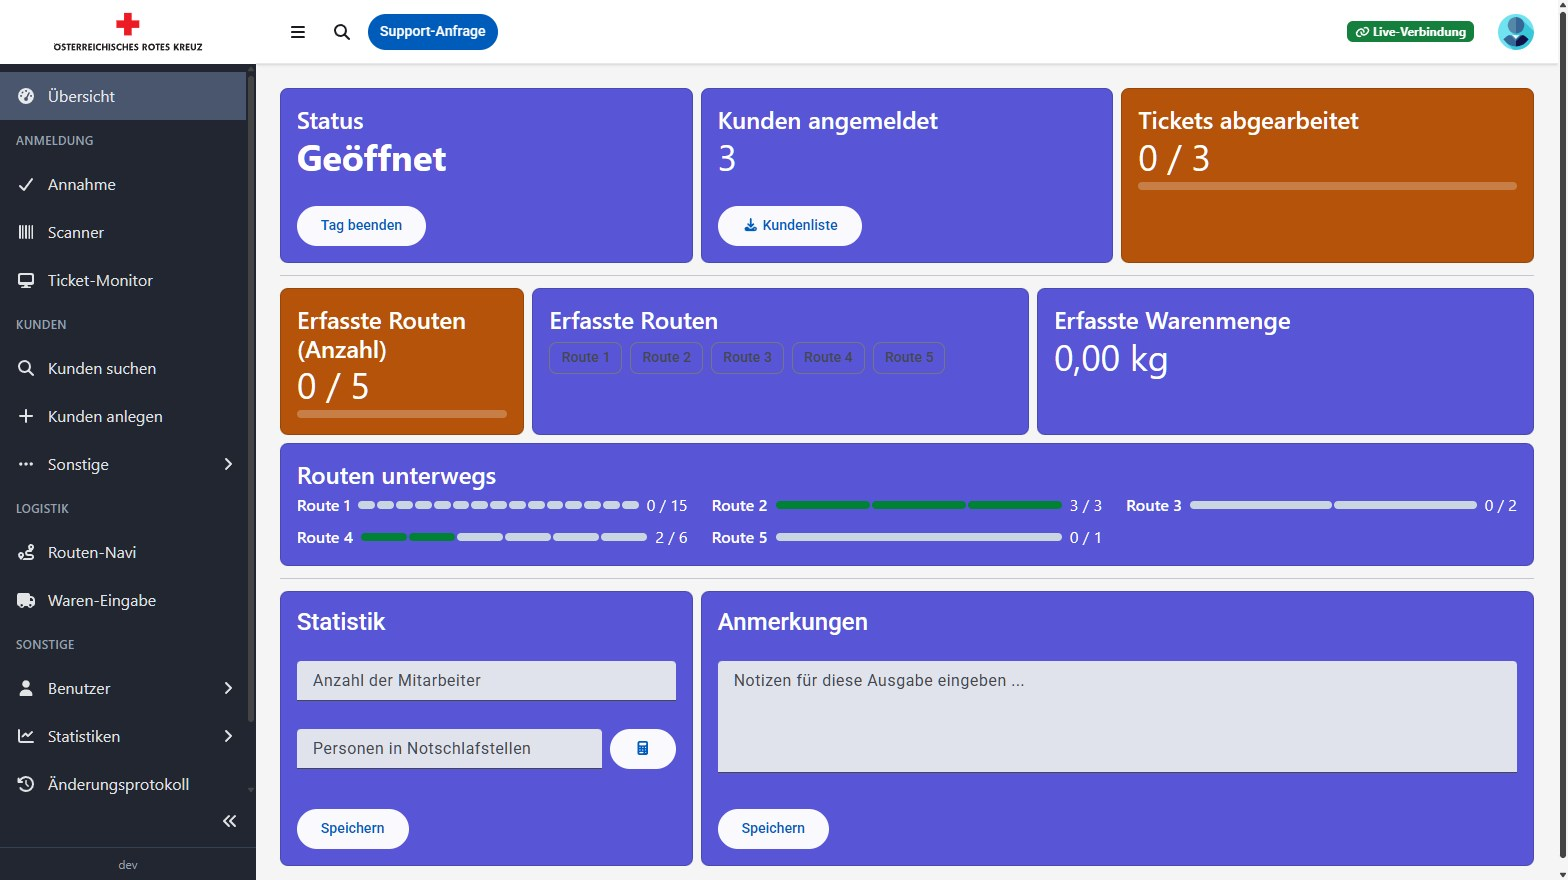
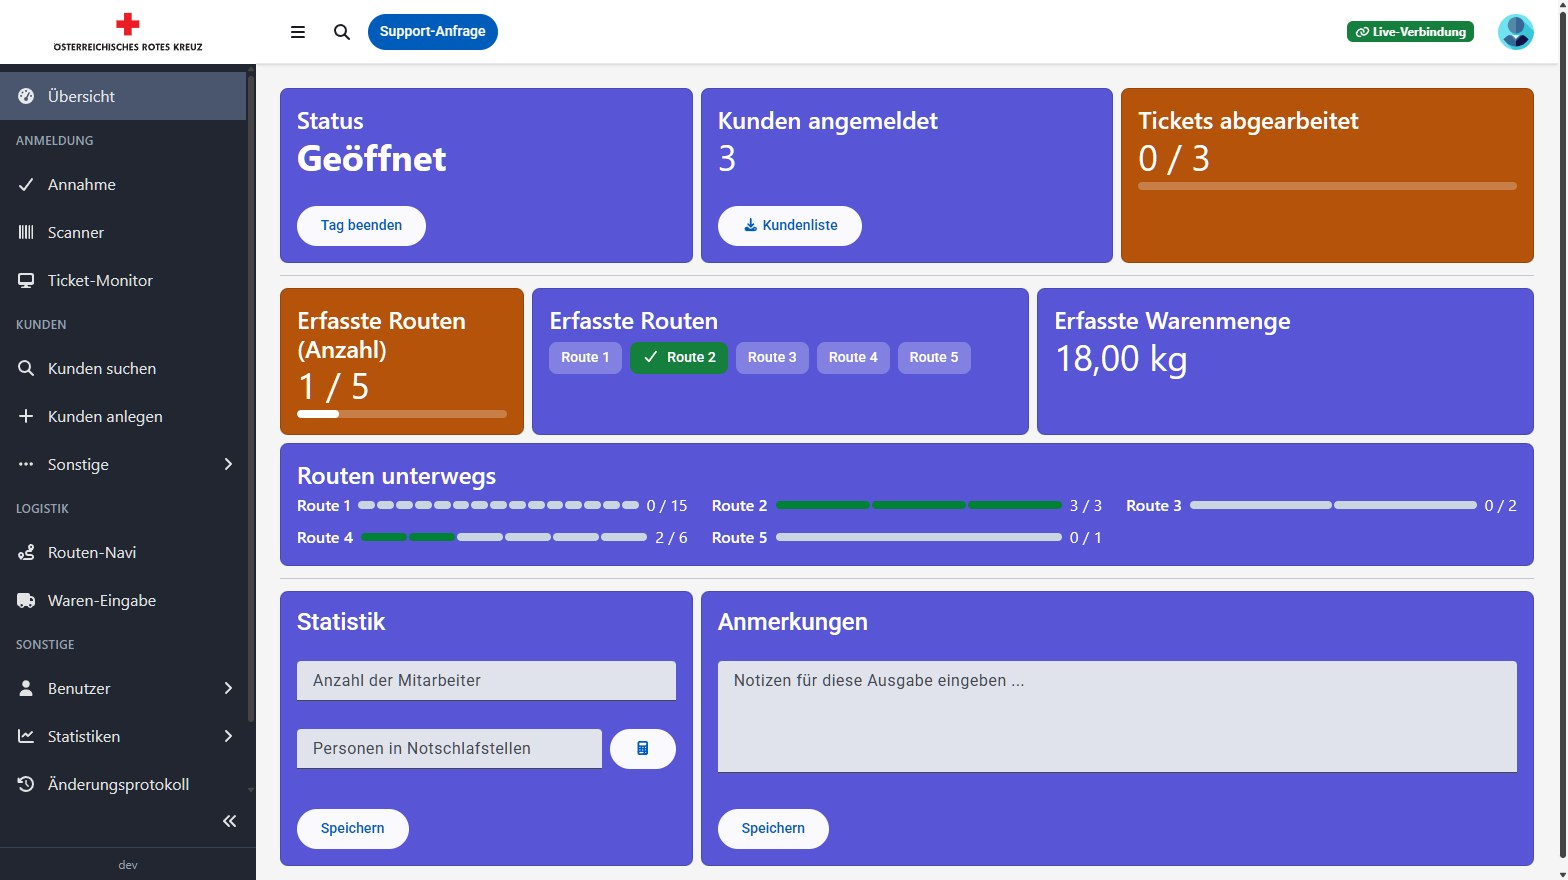
fix(dashboard): give the route chips a legible background on the colour-filled panel
Material's default chip tokens (transparent container, outline, dark label) are
illegible on mat-card-primary. Overridden via the chip tokens - a color set on
the chip host never reaches the label - to translucent white for outstanding
routes and the severity palette's success green for recorded ones.

Changed region(s): [[0.3438, 0.3682, 0.625, 0.4295], [0.6562, 0.3682, 0.7812, 0.4295], [0.1875, 0.4295, 0.2188, 0.4909]]

diff --git a/frontend/src/main/webapp/src/app/modules/dashboard/components/recorded-route-names/recorded-route-names.component.scss b/frontend/src/main/webapp/src/app/modules/dashboard/components/recorded-route-names/recorded-route-names.component.scss
@@ -1,0 +1,16 @@
+// Material's default chip tokens assume a light surface: a transparent container with a 1px
+// outline and an on-surface (dark) label - illegible on this colour-filled panel
+// (mat-card-primary). Same colour language as the neighbouring panels' ratio bars instead:
+// translucent white for an outstanding route, the severity palette's success green (which takes
+// white text by design, see _theme.scss) for a recorded one.
+// Set as tokens rather than raw background/color overrides because the chip's label paints its
+// own color from --mat-chip-label-text-color - a color set on the chip host never reaches it.
+mat-chip.route-chip {
+  --mat-chip-elevated-container-color: rgb(255 255 255 / 0.25);
+  --mat-chip-label-text-color: white;
+  --mat-chip-outline-width: 0;
+
+  &.route-chip-recorded {
+    --mat-chip-elevated-container-color: var(--tafel-severity-success);
+  }
+}

diff --git a/frontend/src/main/webapp/src/app/modules/dashboard/components/recorded-route-names/recorded-route-names.component.spec.ts b/frontend/src/main/webapp/src/app/modules/dashboard/components/recorded-route-names/recorded-route-names.component.spec.ts
@@ -25,10 +25,10 @@ describe('RecordedRouteNamesComponent', () => {
     const chips = fixture.debugElement.queryAll(By.css('mat-chip'));
     expect(chips.length).toBe(3);
     expect(chips[0].nativeElement.textContent.trim()).toContain('Route 1');
-    expect(chips[0].nativeElement.classList).toContain('!bg-green-700');
+    expect(chips[0].nativeElement.classList).toContain('route-chip-recorded');
     expect(chips[1].nativeElement.textContent.trim()).toContain('Route 2');
-    expect(chips[1].nativeElement.classList).not.toContain('!bg-green-700');
-    expect(chips[2].nativeElement.classList).toContain('!bg-green-700');
+    expect(chips[1].nativeElement.classList).not.toContain('route-chip-recorded');
+    expect(chips[2].nativeElement.classList).toContain('route-chip-recorded');
   });
 
   it('placeholder rendered when no active routes exist', () => {

diff --git a/frontend/src/main/webapp/cypress/e2e/food-collection-recording.cy.ts b/frontend/src/main/webapp/cypress/e2e/food-collection-recording.cy.ts
@@ -55,8 +55,8 @@ describe('Food Collection Recording', () => {
       cy.byTestId('recorded-food-collections-count').should('have.text', '1 / 5');
       // index 1: routes are rendered in number order (Route 1, 2, 3, 4, 5) and Route 2 is the
       // second of the five active routes seeded by testdata.sql.
-      cy.byTestId('recorded-route-chip-1').should('contain.text', 'Route 2').and('have.class', '!bg-green-700');
-      cy.byTestId('recorded-route-chip-0').should('contain.text', 'Route 1').and('not.have.class', '!bg-green-700');
+      cy.byTestId('recorded-route-chip-1').should('contain.text', 'Route 2').and('have.class', 'route-chip-recorded');
+      cy.byTestId('recorded-route-chip-0').should('contain.text', 'Route 1').and('not.have.class', 'route-chip-recorded');
     });
   });
 

diff --git a/frontend/src/main/webapp/cypress/e2e/dashboard.cy.ts b/frontend/src/main/webapp/cypress/e2e/dashboard.cy.ts
@@ -123,8 +123,8 @@ describe('Dashboard', () => {
 
     // every active route from testdata.sql is rendered as a chip, none of them recorded yet -
     // the outstanding ones are the actionable information here, not just the recorded ones.
-    cy.byTestId('recorded-route-chip-0').should('contain.text', 'Route 1').and('not.have.class', '!bg-green-700');
-    cy.byTestId('recorded-route-chip-4').should('contain.text', 'Route 5').and('not.have.class', '!bg-green-700');
+    cy.byTestId('recorded-route-chip-0').should('contain.text', 'Route 1').and('not.have.class', 'route-chip-recorded');
+    cy.byTestId('recorded-route-chip-4').should('contain.text', 'Route 5').and('not.have.class', 'route-chip-recorded');
 
     cy.closeDistribution();
   });

diff --git a/frontend/src/main/webapp/src/app/modules/dashboard/components/recorded-route-names/recorded-route-names.component.html b/frontend/src/main/webapp/src/app/modules/dashboard/components/recorded-route-names/recorded-route-names.component.html
@@ -4,7 +4,7 @@
     @if (routes().length > 0) {
       <mat-chip-set testid="recorded-route-chips" aria-label="Erfassungsstatus je Route">
         @for (route of routes(); track route.name; let i = $index) {
-          <mat-chip [class.!bg-green-700]="route.recorded" [class.!text-white]="route.recorded"
+          <mat-chip class="route-chip" [class.route-chip-recorded]="route.recorded"
                     [attr.testid]="'recorded-route-chip-' + i"
                     [attr.aria-label]="route.name + (route.recorded ? ' erfasst' : ' ausstehend')">
             @if (route.recorded) {

diff --git a/frontend/src/main/webapp/src/app/modules/dashboard/components/recorded-route-names/recorded-route-names.component.ts b/frontend/src/main/webapp/src/app/modules/dashboard/components/recorded-route-names/recorded-route-names.component.ts
@@ -17,6 +17,7 @@ interface RouteChipView {
 @Component({
   selector: 'tafel-recorded-route-names',
   templateUrl: 'recorded-route-names.component.html',
+  styleUrls: ['recorded-route-names.component.scss'],
   imports: [
     MatCard,
     MatCardContent,
